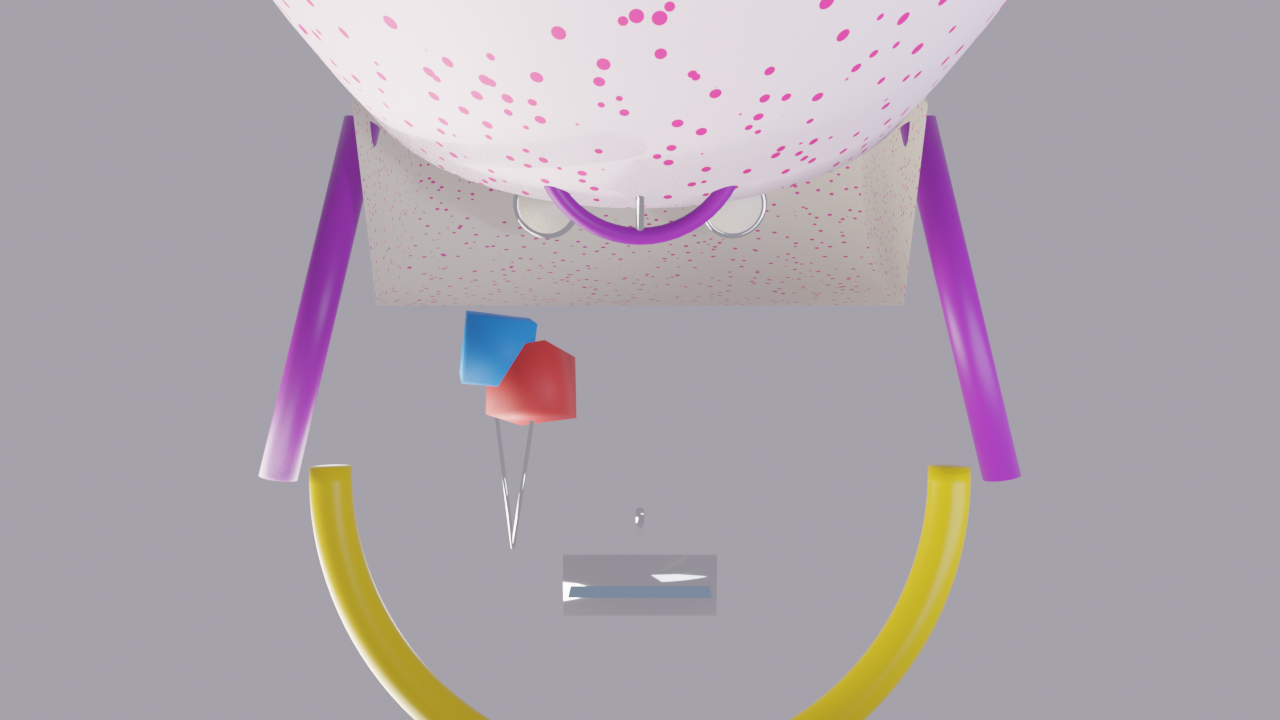
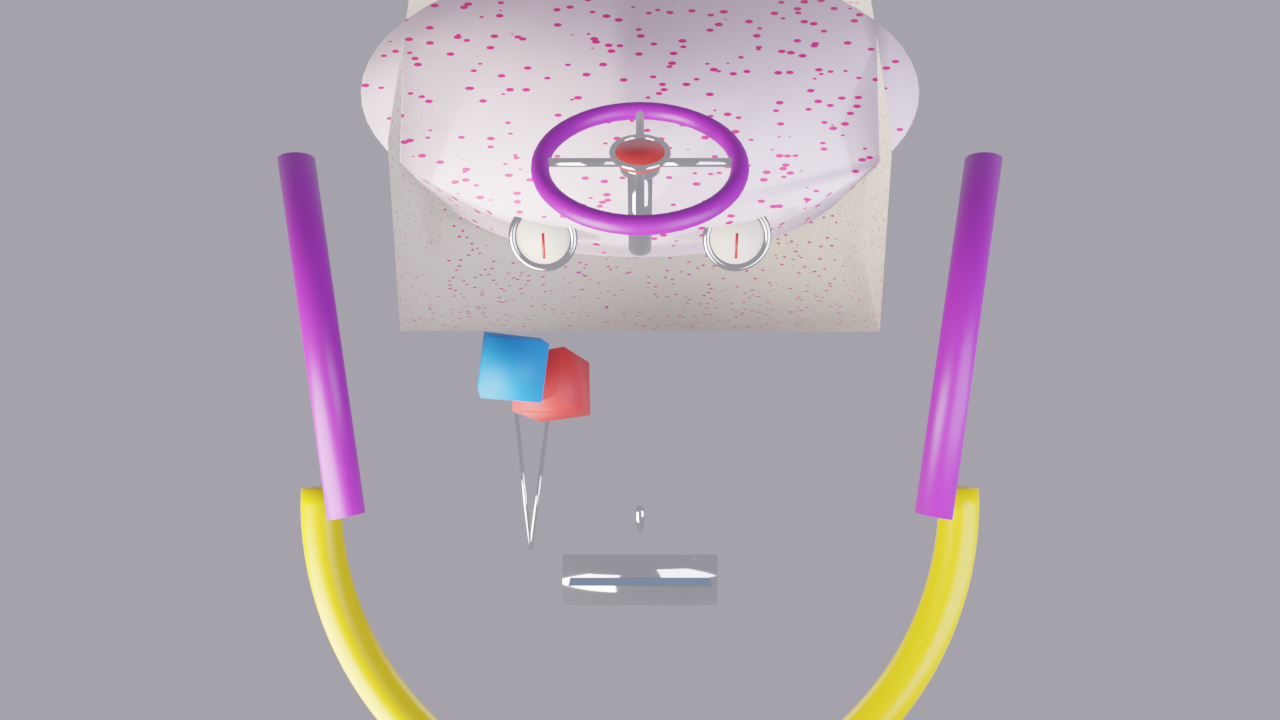
feat(cockpit): Phase 2a — type the blueprint + import it into config
Foundation for the Blender→R3F port. Three changes:

1. CockpitBlueprintSchema in src/config/schema.ts — zod-typed description of
   meshes (capped hemisphere / cylinder sweep / half-torus / box / sphere /
   plane / torus / cylinder), materials (hex color + PBR knobs + optional
   polka-dot pattern), and the camera spec.

2. cockpitBlueprint export in src/config/index.ts — parses the JSON at
   build time so the R3F renderer (Phase 2b) gets fully-typed data, no
   runtime surprises.

3. cockpit-blueprint.json copy (authoritative, under src/config/) plus a
   refresh of the scripts/ copy + preview renders. The Blender agent
   revised the hood rotation sign (+π/2 not −π/2) so the hemisphere's
   flat cap actually faces the driver.

7 unit tests pin the invariants:
  - schema-parses cleanly
  - camera is POC-tuned (0, 1.72, 1.55) with 88° hFov
  - every identity-signature mesh present (hood, dash, pillars, arch,
    seat, wheel rim/hub, horn cap/ring, gauges, flower, dice, mirror)
  - every mesh references a real material
  - hood.backCapZ leaves ≥0.3m forward clearance (POC bug #2)
  - 4 wheel spokes (not 2) and exactly 8 flower petals

Phase 2b (next PR): replace Cockpit.tsx's hand-written JSX with a
blueprint-driven renderer.

diff --git a/src/config/__tests__/cockpitBlueprint.test.ts b/src/config/__tests__/cockpitBlueprint.test.ts
@@ -1,0 +1,78 @@
+/**
+ * cockpitBlueprint unit tests — validates that the Blender-exported
+ * blueprint JSON parses cleanly against CockpitBlueprintSchema and that
+ * the shape contains every element the R3F port (#154) needs.
+ */
+import { describe, expect, it } from 'vitest';
+import { cockpitBlueprint } from '@/config';
+import { CockpitBlueprintSchema } from '@/config/schema';
+
+describe('cockpitBlueprint (parsed cockpit-blueprint.json)', () => {
+  it('parses cleanly against CockpitBlueprintSchema', () => {
+    expect(() => CockpitBlueprintSchema.parse(cockpitBlueprint)).not.toThrow();
+  });
+
+  it('camera matches POC-tuned spec (0, 1.72, 1.55), 88° hFov', () => {
+    expect(cockpitBlueprint.cameraPosition).toEqual([0, 1.72, 1.55]);
+    expect(cockpitBlueprint.cameraFov.horizontalDeg).toBe(88);
+    expect(cockpitBlueprint.cameraFov.near).toBeGreaterThan(0);
+    expect(cockpitBlueprint.cameraFov.far).toBeGreaterThan(1000);
+  });
+
+  it('contains every identity-signature mesh required by the cockpit hero pass', () => {
+    const names = Object.keys(cockpitBlueprint.meshes);
+    // Every element from project_next_pass_cockpit.md must be represented.
+    for (const required of [
+      'hood',
+      'dashCowl',
+      'pillarLeft',
+      'pillarRight',
+      'windshieldArch',
+      'seatBase',
+      'seatBack',
+      'wheelRim',
+      'wheelHub',
+      'hornCap',
+      'hornRing',
+      'gaugeFace_LAUGHS',
+      'gaugeFace_FUN',
+      'flowerCenter',
+      'flowerStem',
+      'diceRed',
+      'diceBlue',
+      'mirrorFrame',
+      'mirrorGlass',
+    ]) {
+      expect(names, `missing ${required}`).toContain(required);
+    }
+  });
+
+  it('every mesh references a real material in the materials table', () => {
+    const materialIds = new Set(Object.keys(cockpitBlueprint.materials));
+    for (const [name, mesh] of Object.entries(cockpitBlueprint.meshes)) {
+      expect(materialIds.has(mesh.materialRef), `${name} → unknown material ${mesh.materialRef}`).toBe(true);
+    }
+  });
+
+  it('hood is a capped hemisphere with a back cap forward of the camera + clearance', () => {
+    const hood = cockpitBlueprint.meshes.hood;
+    expect(hood).toBeDefined();
+    expect(hood?.type).toBe('cappedHemisphere');
+    // Hood back cap must be at least 0.3m forward of camera (POC rule #2).
+    const camZ = cockpitBlueprint.cameraPosition[2];
+    const backCapZ = hood?.backCapZ ?? Number.POSITIVE_INFINITY;
+    expect(camZ - backCapZ, 'hood backCapZ must leave ≥0.3m forward clearance').toBeGreaterThanOrEqual(
+      0.3,
+    );
+  });
+
+  it('has 4 wheel spokes (not 2, per POC identity spec)', () => {
+    const spokes = Object.keys(cockpitBlueprint.meshes).filter((n) => /wheelSpoke\d/.test(n));
+    expect(spokes).toHaveLength(4);
+  });
+
+  it('has exactly 8 flower petals (midway-mayhem ornament signature)', () => {
+    const petals = Object.keys(cockpitBlueprint.meshes).filter((n) => /flowerPetal\d/.test(n));
+    expect(petals).toHaveLength(8);
+  });
+});

diff --git a/src/config/schema.ts b/src/config/schema.ts
@@ -232,3 +232,82 @@ export const TunablesSchema = z.object({
 });
 
 export type Tunables = z.infer<typeof TunablesSchema>;
+
+// ─── Cockpit blueprint (Blender → R3F port) ─────────────────────────────────
+
+const Vec3 = z.tuple([z.number(), z.number(), z.number()]);
+const Vec2 = z.tuple([z.number(), z.number()]);
+const HexColor = z.string().regex(/^#[0-9a-fA-F]{6}$/);
+
+const CockpitMaterialSchema = z
+  .object({
+    baseColor: HexColor,
+    roughness: z.number().min(0).max(1).default(0.5),
+    metalness: z.number().min(0).max(1).default(0),
+    dotColor: HexColor.optional(),
+    dotsPerSide: z.number().int().positive().optional(),
+  })
+  .strict();
+
+/**
+ * Each mesh kind carries the parametric data Three.js needs to rebuild it.
+ * Parsing is permissive (passthrough-style) because the Blender exporter
+ * writes extra hints (notes, labels) that the loader ignores.
+ */
+const CockpitMeshSchema = z
+  .object({
+    type: z.enum([
+      'cappedHemisphere',
+      'cylinderSweep',
+      'cylinder',
+      'halfTorus',
+      'torus',
+      'box',
+      'sphere',
+      'plane',
+    ]),
+    position: Vec3.optional(),
+    rotation: Vec3.optional(),
+    rotationEuler: Vec3.optional(),
+    scale: Vec3.optional(),
+    size: z.union([Vec3, Vec2]).optional(),
+    radius: z.number().positive().optional(),
+    length: z.number().positive().optional(),
+    majorRadius: z.number().positive().optional(),
+    minorRadius: z.number().positive().optional(),
+    widthScale: z.number().positive().optional(),
+    depthScale: z.number().positive().optional(),
+    heightScale: z.number().positive().optional(),
+    widthAlongX: z.number().positive().optional(),
+    arcDeg: z.number().positive().optional(),
+    fromPos: Vec3.optional(),
+    toPos: Vec3.optional(),
+    materialRef: z.string(),
+    // Exporter hints — ignored by the loader, kept for round-trip parity.
+    note: z.string().optional(),
+    label: z.string().optional(),
+    pointsUp: z.boolean().optional(),
+    frontTipZ: z.number().optional(),
+    backCapZ: z.number().optional(),
+  })
+  .strict();
+
+export const CockpitBlueprintSchema = z
+  .object({
+    cameraPosition: Vec3,
+    cameraTargetForward: Vec3,
+    cameraFov: z
+      .object({
+        horizontalDeg: z.number().positive(),
+        near: z.number().positive(),
+        far: z.number().positive(),
+      })
+      .strict(),
+    meshes: z.record(z.string(), CockpitMeshSchema),
+    materials: z.record(z.string(), CockpitMaterialSchema),
+  })
+  .strict();
+
+export type CockpitBlueprint = z.infer<typeof CockpitBlueprintSchema>;
+export type CockpitMesh = z.infer<typeof CockpitMeshSchema>;
+export type CockpitMaterial = z.infer<typeof CockpitMaterialSchema>;

diff --git a/src/config/index.ts b/src/config/index.ts
@@ -6,10 +6,23 @@
  */
 
 import trackPiecesJson from './archetypes/track-pieces.json';
-import { TrackArchetypeSetSchema, TunablesSchema } from './schema';
+import cockpitBlueprintJson from './cockpit-blueprint.json';
+import {
+  CockpitBlueprintSchema,
+  TrackArchetypeSetSchema,
+  TunablesSchema,
+} from './schema';
 import tunablesJson from './tunables.json';
 
 export const trackArchetypes = TrackArchetypeSetSchema.parse(trackPiecesJson);
 export const tunables = TunablesSchema.parse(tunablesJson);
+export const cockpitBlueprint = CockpitBlueprintSchema.parse(cockpitBlueprintJson);
 
-export type { TrackArchetype, TrackArchetypeSet, Tunables } from './schema';
+export type {
+  CockpitBlueprint,
+  CockpitMaterial,
+  CockpitMesh,
+  TrackArchetype,
+  TrackArchetypeSet,
+  Tunables,
+} from './schema';
